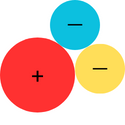
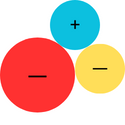
Fix for alchemy markers

Changed region(s): [[0.528, 0.144, 0.672, 0.24], [0.216, 0.552, 0.384, 0.672]]

diff --git a/src/game/Board.java b/src/game/Board.java
@@ -118,14 +118,14 @@ public class Board implements Serializable {
         aspect4,
         "src/ui/utils/markers/alchemy_marker6.png");
     AlchemyMarker alchemyMarker7 = new AlchemyMarker(
-        aspect3,
         aspect7,
         aspect5,
+        aspect3,
         "src/ui/utils/markers/alchemy_marker7.png");
     AlchemyMarker alchemyMarker8 = new AlchemyMarker(
+        aspect10,
+        aspect2,
         aspect6,
-        aspect7,
-        aspect5,
         "src/ui/utils/markers/alchemy_marker8.png");
 
     staticAlchemyMarkers.add(alchemyMarker1);
@@ -137,14 +137,14 @@ public class Board implements Serializable {
     staticAlchemyMarkers.add(alchemyMarker7);
     staticAlchemyMarkers.add(alchemyMarker8);
 
-    Ingredient ingredient1 = new Ingredient("dragon_fruit", 1, alchemyMarker1, "src/ui/utils/ingredient_1.jpg");
-    Ingredient ingredient2 = new Ingredient("emerald", 2, alchemyMarker2, "src/ui/utils/ingredient_2.jpg");
-    Ingredient ingredient3 = new Ingredient("feather", 3, alchemyMarker3, "src/ui/utils/ingredient_3.jpg");
-    Ingredient ingredient4 = new Ingredient("ginger", 4, alchemyMarker4, "src/ui/utils/ingredient_4.jpg");
-    Ingredient ingredient5 = new Ingredient("moondust", 5, alchemyMarker5, "src/ui/utils/ingredient_5.jpg");
-    Ingredient ingredient6 = new Ingredient("obsidian", 6, alchemyMarker6, "src/ui/utils/ingredient_6.jpg");
-    Ingredient ingredient7 = new Ingredient("redstone", 7, alchemyMarker7, "src/ui/utils/ingredient_7.jpg");
-    Ingredient ingredient8 = new Ingredient("saffron", 8, alchemyMarker8, "src/ui/utils/ingredient_8.jpg");
+    Ingredient ingredient1 = new Ingredient("dragon_fruit", 1, alchemyMarker3, "src/ui/utils/ingredient_1.jpg");
+    Ingredient ingredient2 = new Ingredient("emerald", 2, alchemyMarker5, "src/ui/utils/ingredient_2.jpg");
+    Ingredient ingredient3 = new Ingredient("feather", 3, alchemyMarker2, "src/ui/utils/ingredient_3.jpg");
+    Ingredient ingredient4 = new Ingredient("ginger", 4, alchemyMarker1, "src/ui/utils/ingredient_4.jpg");
+    Ingredient ingredient5 = new Ingredient("moondust", 5, alchemyMarker8, "src/ui/utils/ingredient_5.jpg");
+    Ingredient ingredient6 = new Ingredient("obsidian", 6, alchemyMarker7, "src/ui/utils/ingredient_6.jpg");
+    Ingredient ingredient7 = new Ingredient("redstone", 7, alchemyMarker4, "src/ui/utils/ingredient_7.jpg");
+    Ingredient ingredient8 = new Ingredient("saffron", 8, alchemyMarker6, "src/ui/utils/ingredient_8.jpg");
 
     for (int i = 0; i < 4; i++) {
       ingredients.add(ingredient1);
